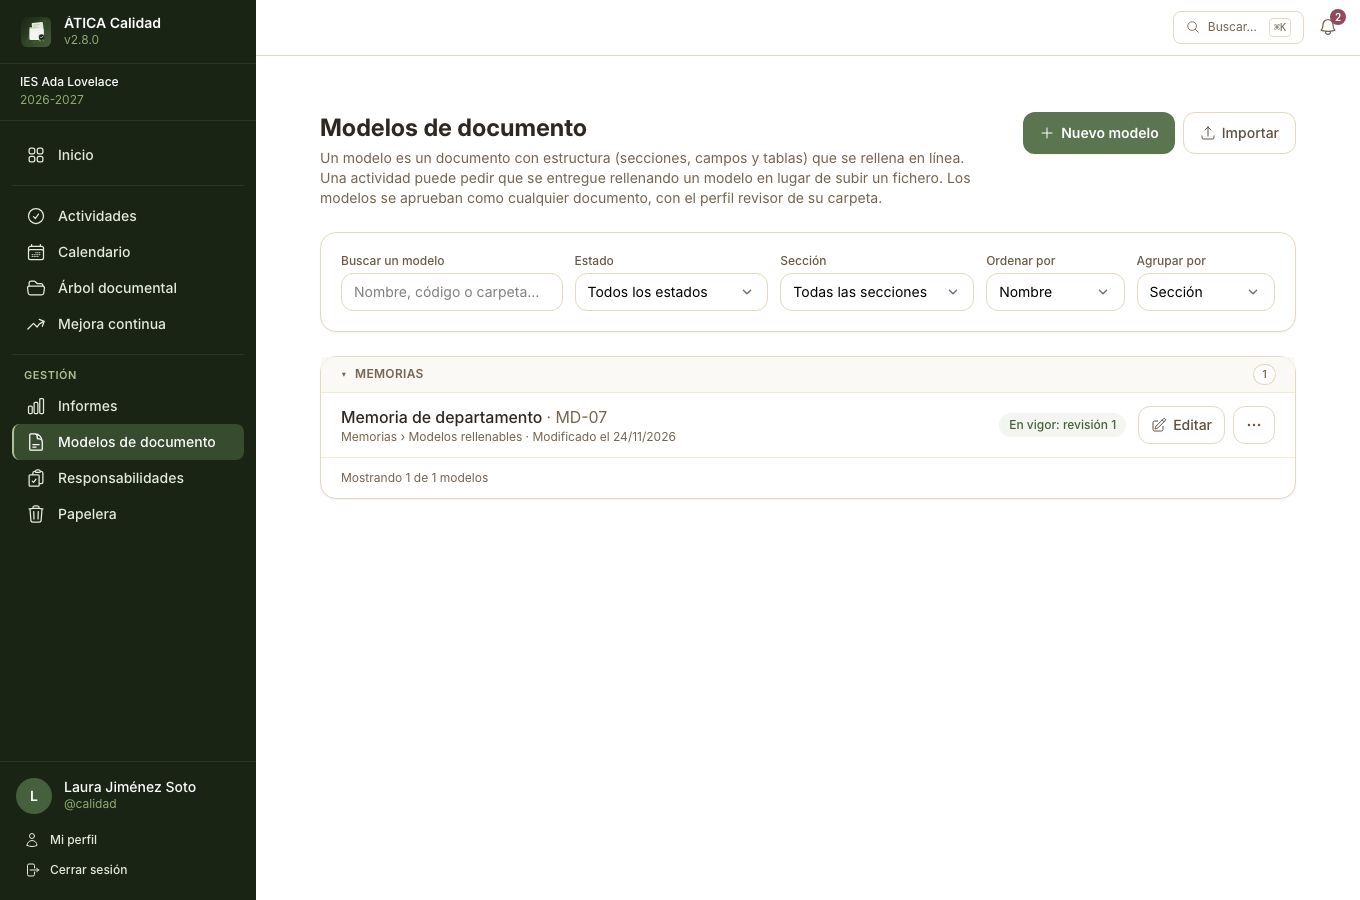
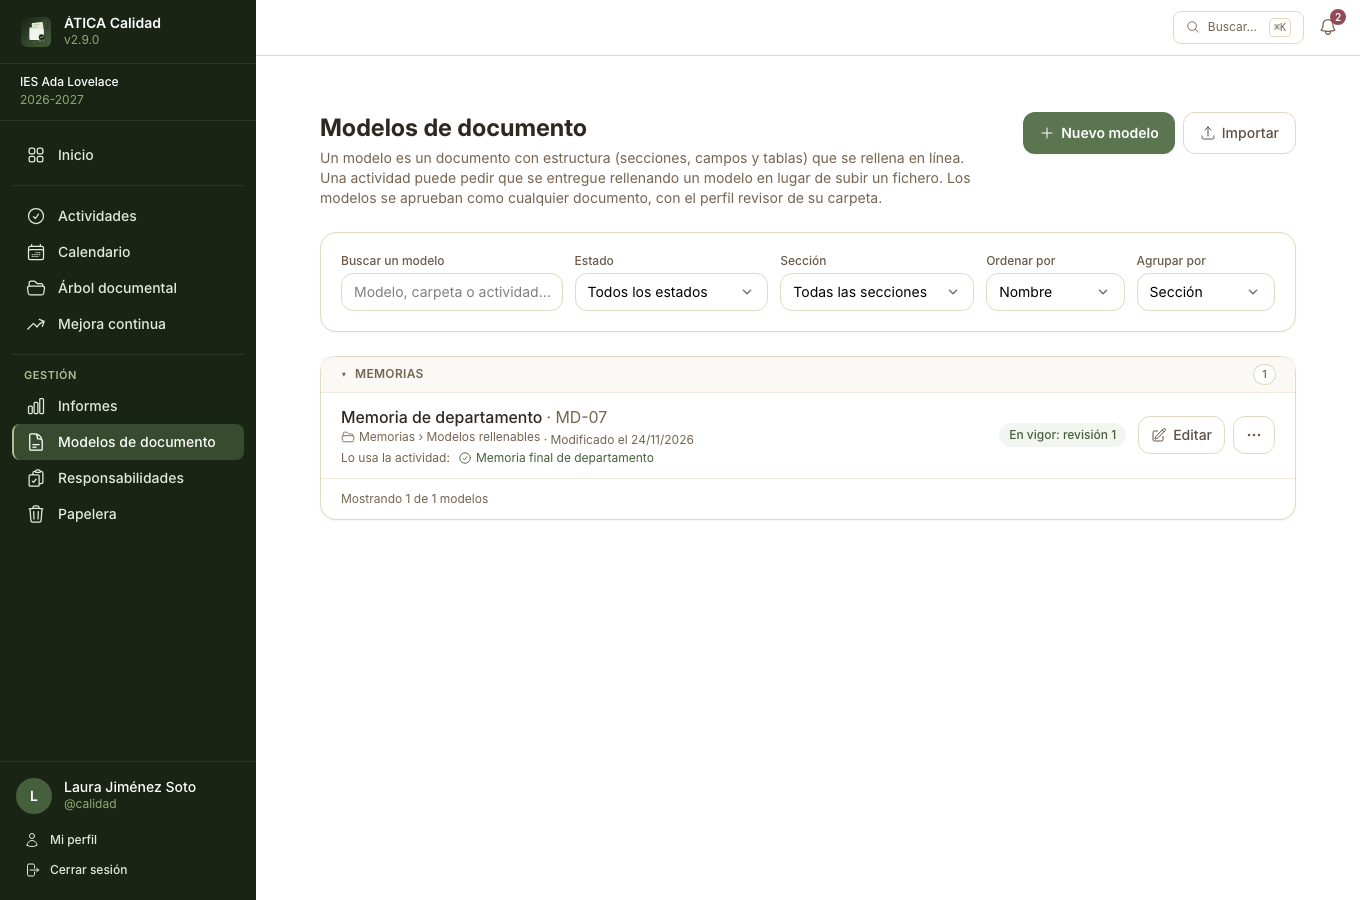
feat(forms): el listado de modelos enlaza con la carpeta de cada modelo y con las actividades que lo usan
- La ruta sección › carpeta abre el modelo en el árbol documental; debajo, «Lo usa la actividad: …» con un enlace a cada actividad (que se abre ya desplegada) o «Aún no lo usa ninguna actividad».
- El buscador del listado también encuentra un modelo por el nombre de su actividad.
- Manual y captura de la lista actualizados.

Changed region(s): [[0.2471, 0.4667, 0.4941, 0.56], [0.7412, 0.4667, 0.9265, 0.4978], [0.2471, 0.3111, 0.4015, 0.3422]]

diff --git a/tests/Integration/Controller/FormFlowTest.php b/tests/Integration/Controller/FormFlowTest.php
@@ -282,6 +282,35 @@ final class FormFlowTest extends ControllerTestCase
         self::assertSelectorTextContains('body', 'se ha aprobado y ya está en vigor');
     }
 
+    public function testTheListOfModelsLinksEachToItsFolderAndToTheActivitiesThatUseIt(): void
+    {
+        $service = self::getContainer()->get(FormModelService::class);
+        $used    = $service->create($this->modelFolder, 'Ficha', null);
+        $service->create($this->modelFolder, 'Otra ficha', null);
+        $this->activity->setFormModel($used);
+        $this->flush();
+
+        $this->loginAs($this->admin, $this->centre);
+        $crawler = $this->client->request('GET', '/modelos');
+        self::assertResponseIsSuccessful();
+
+        $row = $crawler->filter('li[data-model-list-target="row"][data-name="Ficha"]');
+        self::assertStringContainsString(
+            'folder=' . $this->modelFolder->getId()->toRfc4122(),
+            (string) $row->filter('[data-testid="model-folder-link"]')->attr('href'),
+        );
+        self::assertStringContainsString('document=' . $used->getDocument()->getId()->toRfc4122(), (string) $row->filter('[data-testid="model-folder-link"]')->attr('href'));
+        $activityLink = $row->filter('[data-testid="model-activity-link"]');
+        self::assertCount(1, $activityLink);
+        self::assertSame('Ficha de actividad', trim($activityLink->text()));
+        self::assertStringContainsString('activity=' . $this->activity->getId()->toRfc4122(), (string) $activityLink->attr('href'));
+        self::assertStringContainsString('Ficha de actividad', (string) $row->attr('data-search'), 'searching by the activity finds its model');
+
+        $other = $crawler->filter('li[data-model-list-target="row"][data-name="Otra ficha"]');
+        self::assertCount(0, $other->filter('[data-testid="model-activity-link"]'));
+        self::assertStringContainsString('Aún no lo usa ninguna actividad', $other->text());
+    }
+
     public function testAFolderThatDoesNotAskForReviewHasNoApproveButton(): void
     {
         $service = self::getContainer()->get(FormModelService::class);

diff --git a/src/Controller/FormModelController.php b/src/Controller/FormModelController.php
@@ -56,6 +56,7 @@ class FormModelController extends AbstractController
         private readonly TranslatorInterface $translator,
         private readonly CsrfTokenManagerInterface $csrf,
         private readonly DocumentRevisionReviewer $reviewer,
+        private readonly \App\Repository\ActivityRepository $activities,
     ) {}
 
     #[Route('', name: 'app_form_models', methods: ['GET'])]
@@ -68,6 +69,14 @@ class FormModelController extends AbstractController
             $folders[] = ['id' => $folder->getId()->toRfc4122(), 'label' => $folder->getDocumentSection()->getName() . ' › ' . $folder->getName()];
         }
         usort($folders, static fn (array $a, array $b): int => strnatcasecmp($a['label'], $b['label']));
+
+        // The activities delivered by filling each model, linked from its row (as is its folder, in the tree).
+        $activitiesByModel = [];
+        foreach ($this->activities->findUsingAFormModel($centre) as $activity) {
+            if ($activity->isForm()) {
+                $activitiesByModel[$activity->getFormModel()?->getId()->toRfc4122()][] = $activity;
+            }
+        }
 
         // What the list needs of each model (the client filters, sorts and groups with it): where it lives, its status flags and when
         // it last changed (the draft or the latest revision, whichever is newer).
@@ -96,6 +105,7 @@ class FormModelController extends AbstractController
                 'draftAhead' => $draftAhead,
                 'attention'  => $pending !== null || $draftAhead,
                 'updated'    => $updated,
+                'activities' => $activitiesByModel[$model->getId()->toRfc4122()] ?? [],
             ];
         }
 

diff --git a/src/Repository/ActivityRepository.php b/src/Repository/ActivityRepository.php
@@ -79,6 +79,27 @@ class ActivityRepository extends ServiceEntityRepository
     }
 
     /**
+     * The centre's activities delivered by filling a model (hidden ones too: the list of models is for whoever manages them), by title,
+     * with their category: what Gestión › Modelos de documento links each model to.
+     *
+     * @return list<Activity>
+     */
+    public function findUsingAFormModel(EducationalCentre $centre): array
+    {
+        /** @var list<Activity> $activities */
+        $activities = $this->createQueryBuilder('a')
+            ->join('a.category', 'c')->addSelect('c')
+            ->where('c.educationalCentre = :centre')
+            ->andWhere('a.formModel IS NOT NULL')
+            ->setParameter('centre', $centre->getId(), 'uuid')
+            ->orderBy('a.title')
+            ->getQuery()
+            ->getResult();
+
+        return $activities;
+    }
+
+    /**
      * Fetch-joins relatedDocuments (and just enough of each one — its active revision and its
      * folder/section — to render a download link and a tree-location icon) so that rendering a
      * category's activity list doesn't re-query per activity per related document.

diff --git a/docs/manual/12-modelos-de-documento.md b/docs/manual/12-modelos-de-documento.md
@@ -36,9 +36,14 @@ muestra su estado: un **punto ámbar** si esa parte difiere de la última revisi
 rojo** con los problemas que impiden enviarla. Encima de las pestañas, una **barra fija** dice si hay
 cambios sin enviar y tiene el botón de envío.
 
-![Pantalla «Modelos de documento»: botones Nuevo modelo e Importar, y debajo la «Memoria de departamento» (MD-07) en vigor, con sus botones Editar, Exportar y Duplicar](img/modelos-lista.png)
+![Pantalla «Modelos de documento»: botones Nuevo modelo e Importar, y debajo la «Memoria de departamento» (MD-07) en vigor, con el enlace a su carpeta «Memorias › Modelos rellenables», la actividad que lo usa («Memoria final de departamento») y sus botones Editar y ⋯](img/modelos-lista.png)
 
-La lista de modelos tiene un **buscador** (nombre, código o carpeta) y filtros por **estado** (en vigor, sin
+Cada fila enlaza con lo relacionado: la ruta **sección › carpeta** abre el modelo en su carpeta del
+árbol documental, y debajo aparecen las **actividades que se entregan rellenándolo** («Lo usa la
+actividad: …»), cada una con un enlace que la abre ya desplegada en Actividades (o «Aún no lo usa
+ninguna actividad»).
+
+La lista de modelos tiene un **buscador** (nombre, código, carpeta o actividad) y filtros por **estado** (en vigor, sin
 revisión aprobada, pendiente de aprobar o con cambios en el borrador sin enviar) y por **sección** del árbol
 documental. Se puede **ordenar** por nombre, código, última modificación o estado, y **agrupar** por sección
 o por estado (cada grupo se pliega pulsando su título). El botón ámbar **Necesitan atención** filtra los

diff --git a/CHANGELOG.md b/CHANGELOG.md
@@ -11,6 +11,8 @@ a [Semantic Versioning](https://semver.org/lang/es/).
 
 - Editor de modelos: quien puede revisar la carpeta del modelo tiene en el panel de envío el botón **Aprobar nueva revisión**, que crea la revisión ya aprobada y en vigor (sin avisar a los revisores de una revisión pendiente que ya no lo está).
 
+- Modelos de documento: cada fila del listado enlaza con su carpeta del árbol documental (abre el documento del modelo) y con las actividades que se entregan rellenándolo (abiertas ya desplegadas); el buscador también encuentra un modelo por el nombre de su actividad.
+
 ### Changed
 
 - Actividades › Ver: las tarjetas de una categoría salen plegadas (título, plazo, estado y avance) y se despliegan pulsando su título o «Ver detalles y entregas»; una búsqueda o un enlace a una actividad o a una entrega la despliega y se desplaza hasta ella. Una actividad con muchas entregas ya no alarga la página sin fin.
